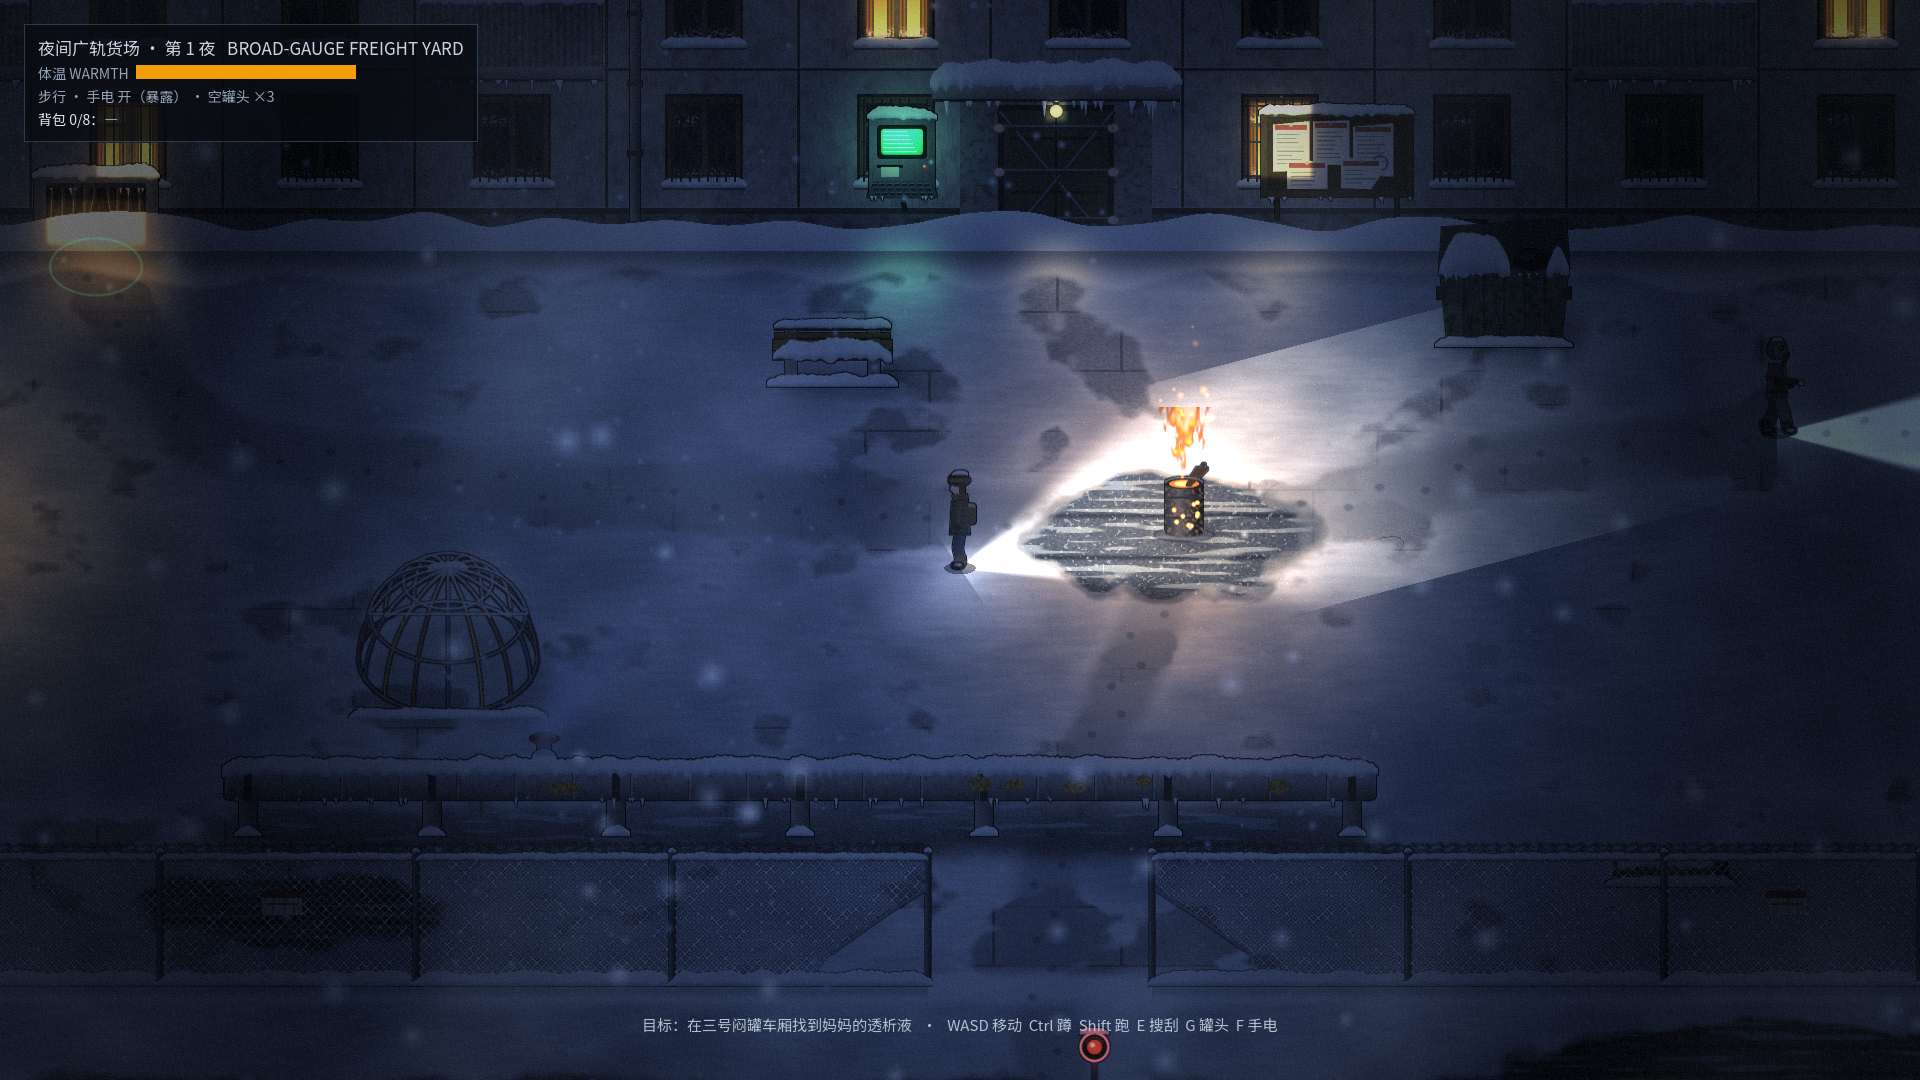
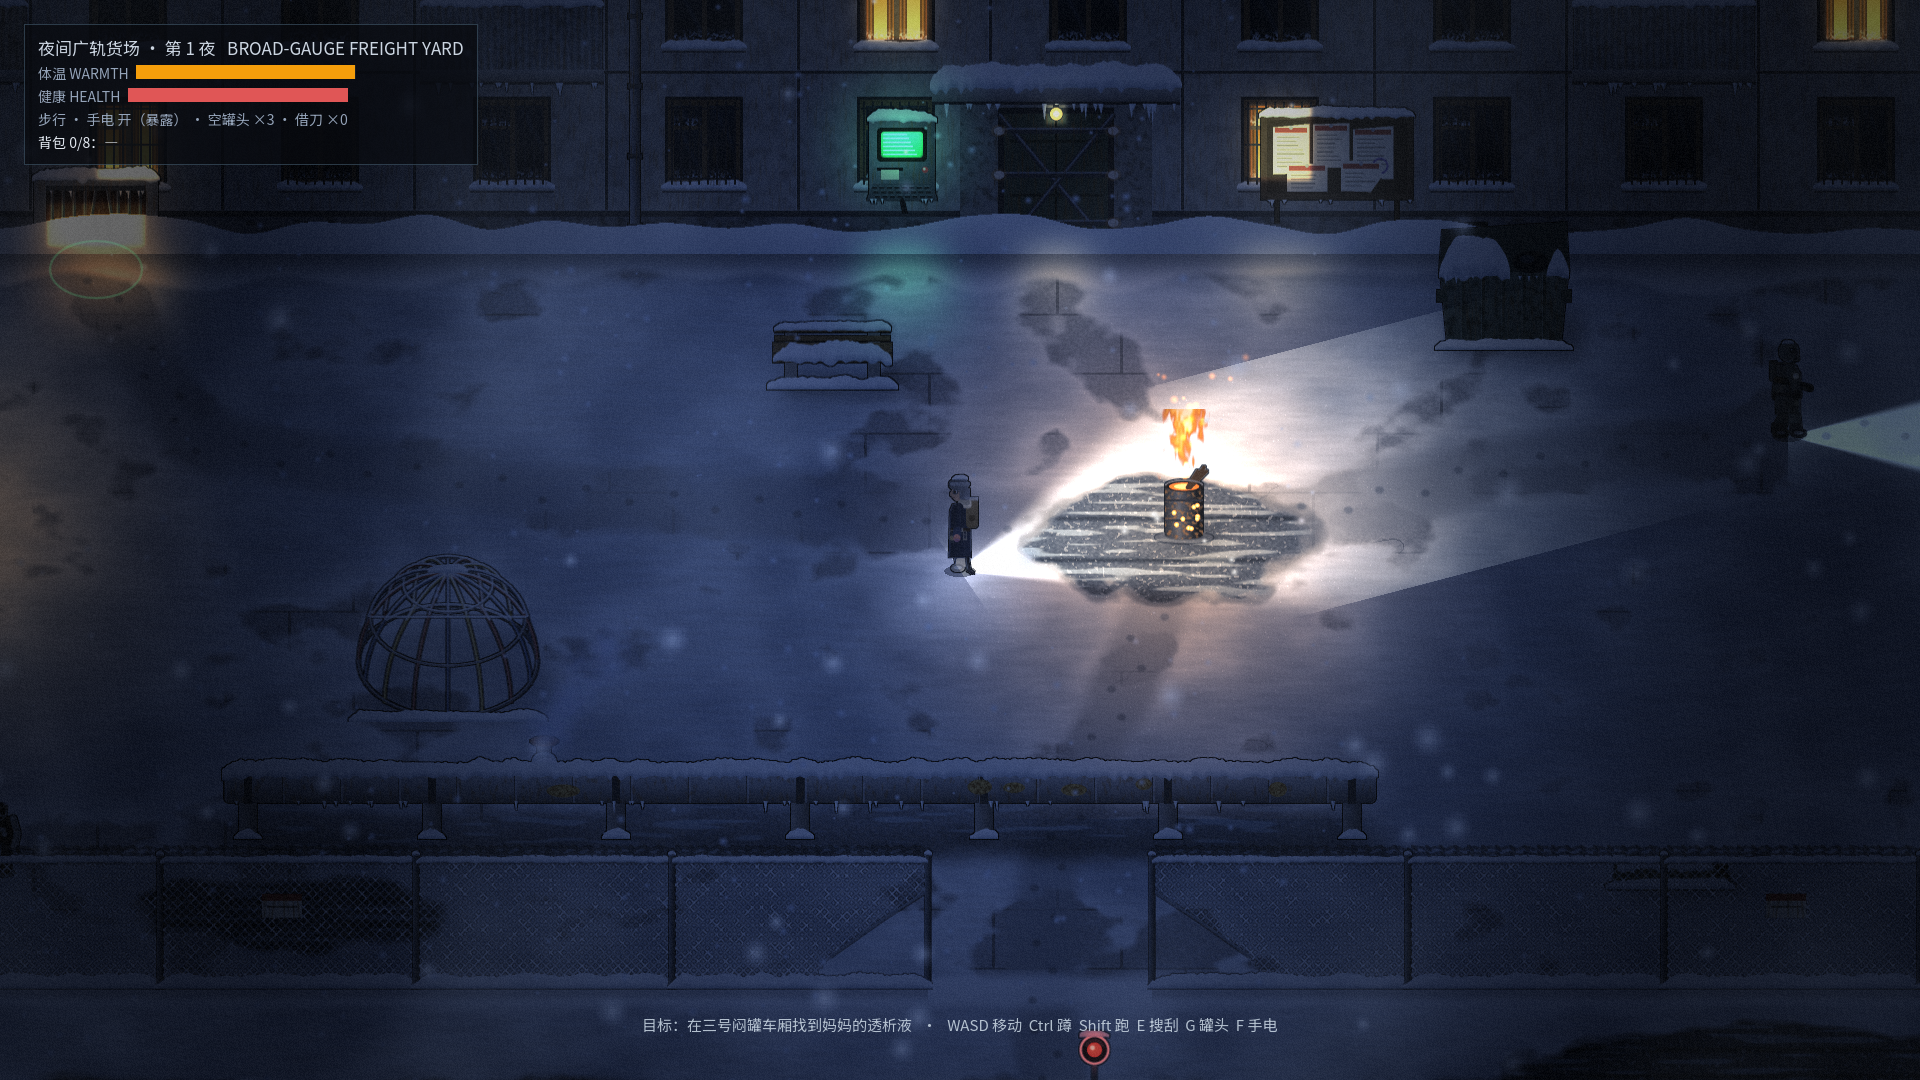
docs(night): rabid boxcar screenshot, three-way stealth README, HUD guidance
- add night_yard_rabid_boxcar screenshot and capture rig (freeze rabids)
- README: document three-way stealth, rabid sprites, 42 smoke tests
- HUD hint: lure the boxcar rabid into an OSK cone with a thrown can
- track NightRabid.gd.uid

diff --git a/README.md b/README.md
@@ -95,12 +95,13 @@ year-of-z-iron-winter/
 | :--- | :--- |
 | **地面** | 一张 3072×1587 烘焙大图（雪 / 预制板 / 雪径脚印 / 道砟枕木钢轨 / 冻雪泥黑冰 / 焦油黑雪 / 接触阴影），`light_mask=2` |
 | **立面与道具** | 赫鲁晓夫楼立面（窗、阳台、焊死的入口、电传终端、公告栏、锅炉房通风口）+ 17 件道具（三号闷罐车厢、煤水塔、探照灯塔、报废莫斯科人、蒸汽管、油桶火堆…），全部 Y-sort，pivot 在底部中心 |
-| **角色** | 阿列克谢 / ОСК 清杀兵精灵表：S/E/N 三朝向 × 待机/走路 4 帧/蹲伏 3 帧（W 用翻转） |
+| **角色** | 阿列克谢 / ОСК 清杀兵 / 灰鳞狂暴者精灵表：S/E/N 三朝向 × 待机/走路 4 帧/蹲伏 3 帧（W 用翻转） |
 | **灯光** | `CanvasModulate` 夜色 + 成对 `PointLight2D`：Ground 灯只照地面并投影，Objects 灯只照立起的精灵不投影（避免 2.5D 立面被自己的遮挡体压黑）；手电/探照灯是按 0.62 压缩的锥形灯；窗光是一张整面墙的灯光贴图 |
 | **氛围** | GPU 雪粒子（世界层 + 屏幕前景层）、火星、蒸汽、后处理（冷调分级 / 世界锚定的雪雾 / 暗角 / 颗粒 / 失温霜边 / 警报红边）、4 段环境音循环 |
 | **玩法** | 潜行、手电开关（亮=好找路也好被发现）、脚步噪声、`G` 扔罐头引开清杀兵、探照灯扫描锁定（车厢/煤水塔挡光）、长按 E 搜刮（掉落表读 `CampaignData`）、火堆回温、锅炉房通风口撤离；目标是在三号车厢找到透析液 |
+| **三方潜行** | 4 只灰鳞狂暴者（含守在三号车厢门口的壮硕变体）：360° 近距视线 + 循声调查（脚步 / 搜刮 / 罐头 / 枪声），0.45s 起跳预警红圈后扑咬；清杀兵光锥里出现狂暴者会瞄准 0.5s 击毙并留下血迹 → **借刀杀人**；枪声 10m 又会引来下一只。声纹三色：灰白=你 / 暗红=狂暴者 / 冷蓝=清杀队 |
 
-**运行**：`launch_night_scene.bat`，或在战役里按 `F2`。操作：`WASD` 移动 · 鼠标朝向 · `Ctrl` 蹲 · `Shift` 跑 · 长按 `E` 搜刮/撤离 · `G` 罐头 · `F` 手电 · `M` 静音 · `R` 重来 · `Esc` 返回战役。测试：`tests/night_explore_smoke.gd`（29 项，已加进 `run_smoke_tests.bat`）。
+**运行**：`launch_night_scene.bat`，或在战役里按 `F2`。操作：`WASD` 移动 · 鼠标朝向 · `Ctrl` 蹲 · `Shift` 跑 · 长按 `E` 搜刮/撤离 · `G` 罐头 · `F` 手电 · `M` 静音 · `R` 重来 · `Esc` 返回战役。测试：`tests/night_explore_smoke.gd`（42 项，已加进 `run_smoke_tests.bat`）。
 
 **美术管线**（`godot_project/tools/art_gen/`，Python 3 + numpy + Pillow，无需外部服务）：
 
